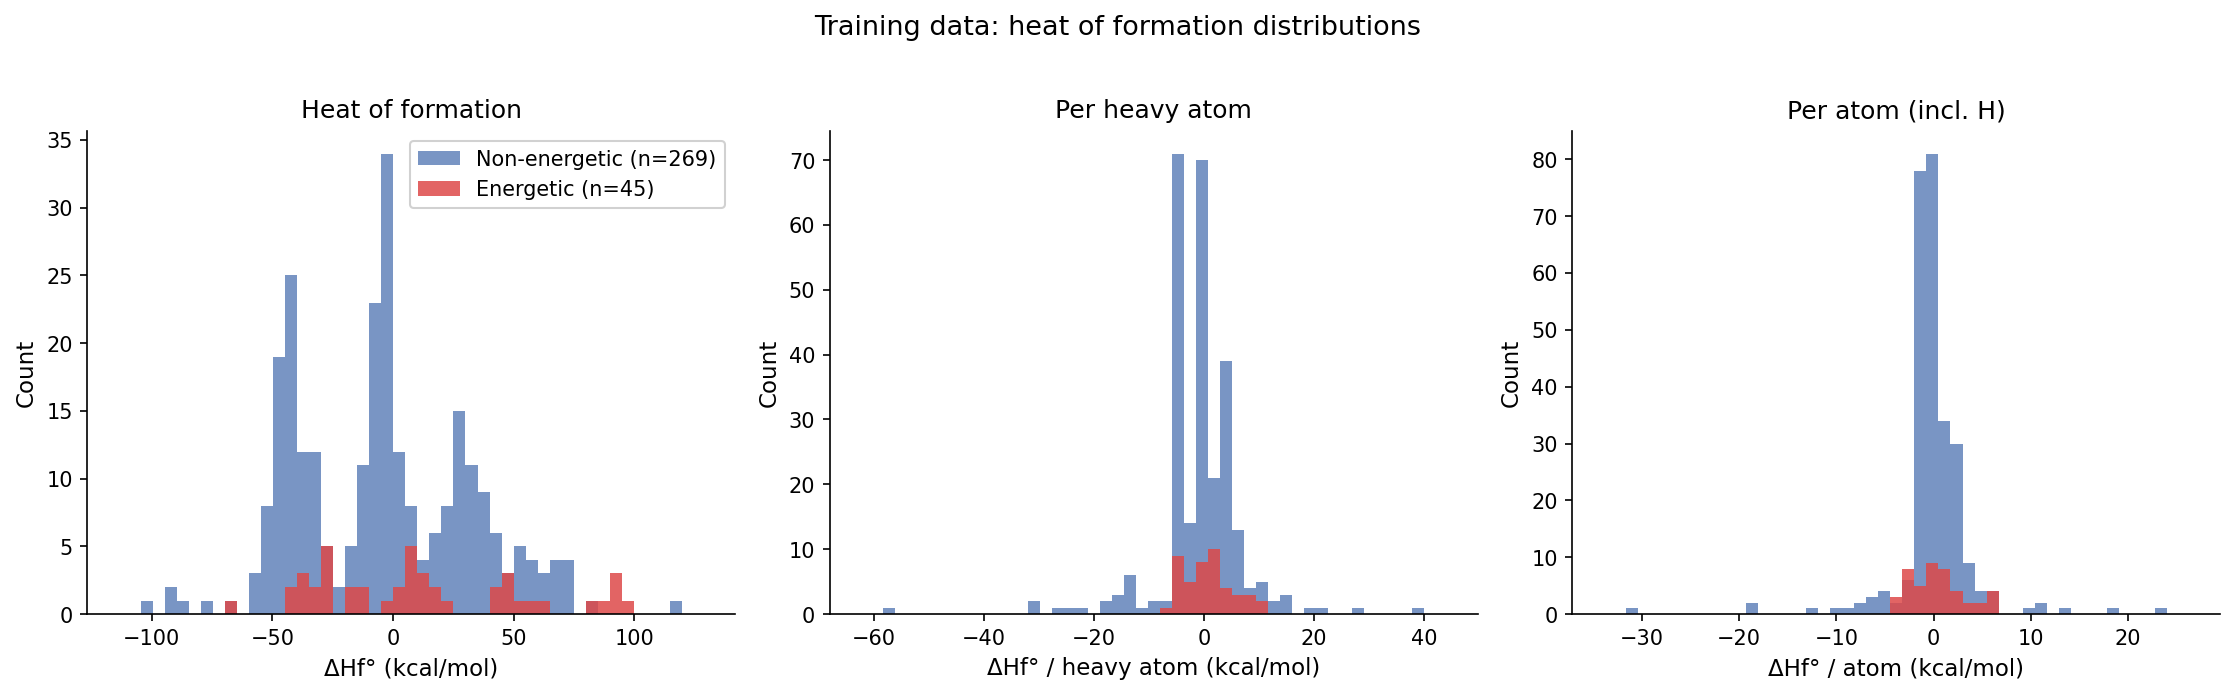
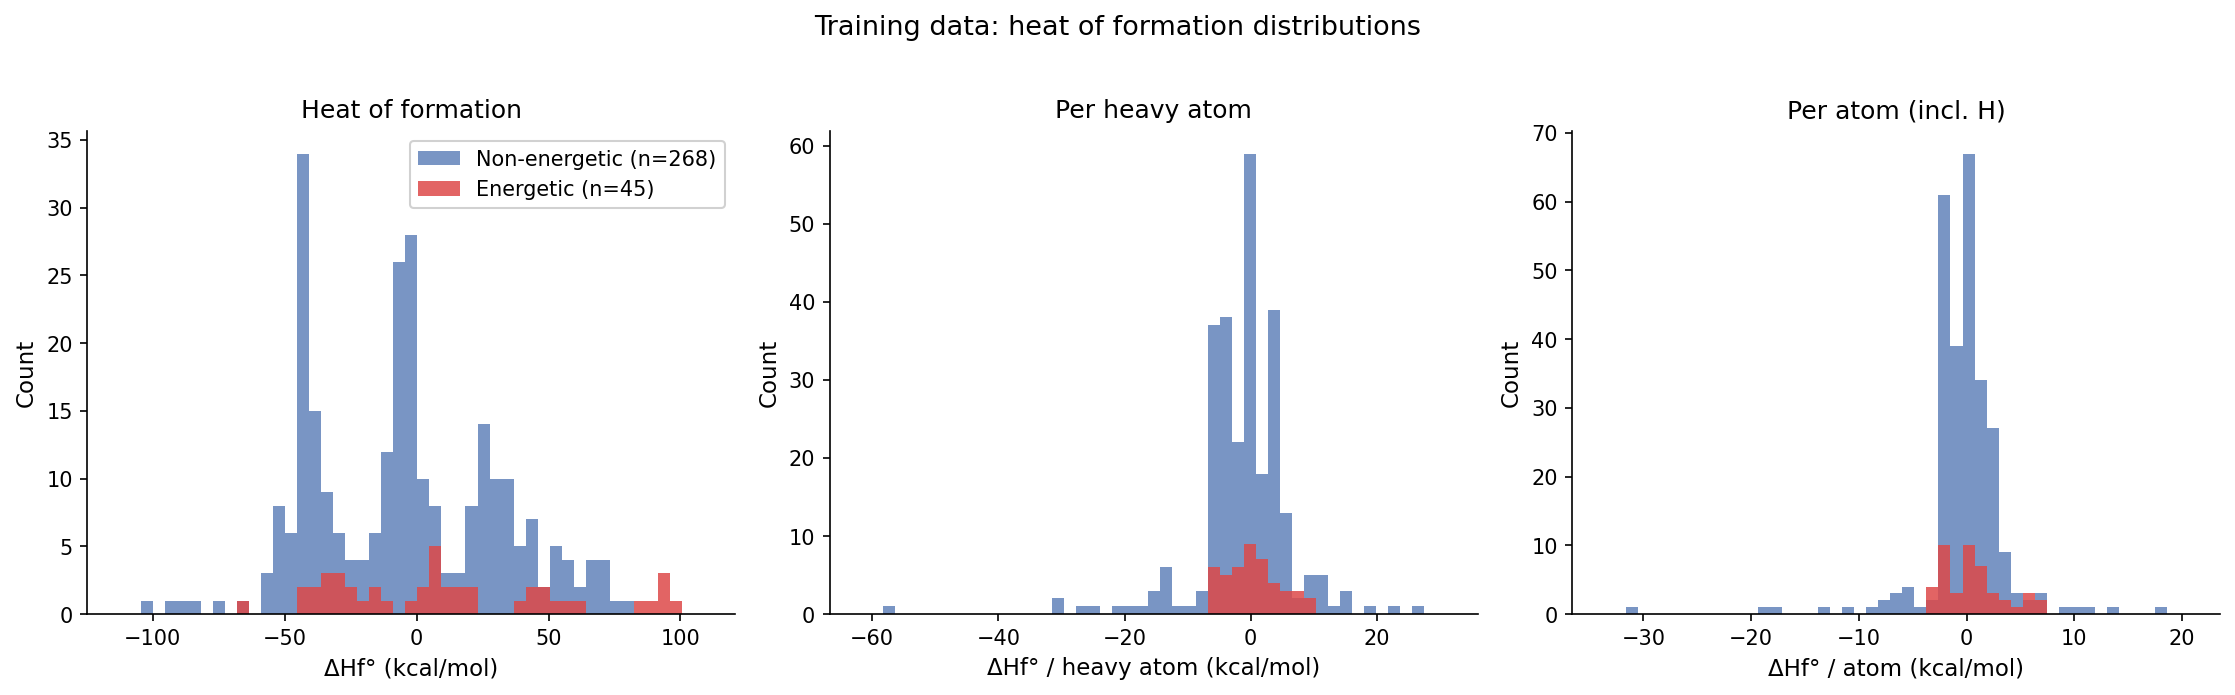
Remove cyclopropenylidene from training data (313 molecules)
Cyclopropenylidene is a carbene whose SMILES (C1=C=C1) is incorrectly
parsed by RDKit, which adds implicit H to fill valence rather than
representing the divalent carbon. Remove it to avoid fitting on a
misrepresented structure.

Update all references: test counts, README dataset description and
benchmark narrative, and regenerate the training data histogram.

diff --git a/tests/test_data.py b/tests/test_data.py
@@ -23,15 +23,15 @@ class TestTrainingData:
     def df(self):
         return load_training_data()
 
-    def test_has_314_rows(self, df):
-        assert len(df) == 314
+    def test_has_313_rows(self, df):
+        assert len(df) == 313
 
     def test_required_columns(self, df):
         for col in ["id", "name", "formula", "smiles", "exp_dhf_kcal_mol", "source", "category"]:
             assert col in df.columns
 
     def test_ids_are_sequential(self, df):
-        assert list(df["id"]) == list(range(1, 315))
+        assert list(df["id"]) == list(range(1, 314))
 
     def test_all_smiles_parseable(self, df):
         for idx, row in df.iterrows():
@@ -67,7 +67,7 @@ class TestTrainingData:
         sources = set(df["source"])
         assert sources == {"Cawkwell2021", "Yalamanchi2020"}
         assert len(df[df["source"] == "Cawkwell2021"]) == 102
-        assert len(df[df["source"] == "Yalamanchi2020"]) == 212
+        assert len(df[df["source"] == "Yalamanchi2020"]) == 211
 
     def test_exp_dhf_values_reasonable(self, df):
         """Experimental ΔHf° should be in a reasonable range for organic molecules."""

diff --git a/README.md b/README.md
@@ -120,12 +120,12 @@ python -m deltahf predict -i molecules.csv --epsilon params.json --model 4param 
 
 ## Training Data
 
-`deltahf/data/training_data.csv` contains **314 CHNO molecules** with experimental ΔHf° values from two literature sources:
+`deltahf/data/training_data.csv` contains **313 CHNO molecules** with experimental ΔHf° values from two literature sources:
 
 | Source | Count | Description |
 |--------|-------|-------------|
 | Cawkwell et al. (2021)<sup>1</sup> | 102 | Energetic CHNO molecules + small reference compounds |
-| Yalamanchi et al. (2020)<sup>2</sup> | 212 | Cyclic hydrocarbons (CH only) |
+| Yalamanchi et al. (2020)<sup>2</sup> | 211 | Cyclic hydrocarbons (CH only) |
 
 Each molecule is assigned a `category` label:
 
@@ -134,7 +134,7 @@ Each molecule is assigned a `category` label:
 | `energetic` | 45 | Explosives, nitro/azide/nitroso compounds |
 | `small_CHNO` | 57 | Small reference molecules (methane, water, ethanol, etc.) |
 | `cyclic_HC` | 189 | Cyclic hydrocarbons (cyclopentanes through naphthalenes) |
-| `strained_3ring` | 13 | Cyclopropane derivatives and quadricyclane |
+| `strained_3ring` | 12 | Cyclopropane derivatives and quadricyclane |
 | `large_HC` | 10 | Large PAHs (pyrene, tetracene, etc.) and decylbenzene |
 
 Elemental composition: all molecules contain only C, H, N, O. The Yalamanchi subset contains only C and H.
@@ -165,7 +165,7 @@ python -m deltahf fit \
     -o params.json
 ```
 
-This processes all 314 molecules through the pipeline (SMILES -> RDKit conformers -> xTB optimization), fits atom equivalents by least squares for each model, and reports adjusted R², RMSD, MAD, max deviation, and 10-fold CV RMSD. Standard errors on each epsilon are computed from the CV folds.
+This processes all 313 molecules through the pipeline (SMILES -> RDKit conformers -> xTB optimization), fits atom equivalents by least squares for each model, and reports adjusted R², RMSD, MAD, max deviation, and 10-fold CV RMSD. Standard errors on each epsilon are computed from the CV folds.
 
 ### Example 3: Predict ΔHf° for New Molecules
 
@@ -190,7 +190,7 @@ python -m deltahf predict \
 
 ### Running Benchmarks
 
-`benchmark.py` measures accuracy across all eight models, three model chemistries (xTB, gXTB, UMA), and three conformer counts (1, 3, 5). Results are reported for both the full 314-molecule training set and the 102-molecule Cawkwell2021 subset (enabling comparison with the published DFT-B baseline<sup>1</sup>).
+`benchmark.py` measures accuracy across all eight models, three model chemistries (xTB, gXTB, UMA), and three conformer counts (1, 3, 5). Results are reported for both the full 313-molecule training set and the 102-molecule Cawkwell2021 subset (enabling comparison with the published DFT-B baseline<sup>1</sup>).
 
 ```bash
 # xTB (CPU)
@@ -210,7 +210,7 @@ Results are cached per method × n_conformers in `.benchmark_cache/`, so re-runs
 
 ### Key Findings
 
-A comprehensive benchmark (314 molecules, n_conformers = 1, 3, 5) reveals four main findings:
+A comprehensive benchmark (313 molecules, n_conformers = 1, 3, 5) reveals four main findings:
 
 1. **Bond-order classification outperforms hybridization** — Using maximum bond order (1/2/3) from the Kekulized structure instead of RDKit hybridization labels improves accuracy at both the coarse level (`bondorder` vs `hybrid`, same 10 params) and the fine-grained level (`bondorder_ext` vs `extended`). The best model overall is `bondorder_ext` (16 params), combining bond-order labels with per-carbon H-counts.
 
@@ -220,7 +220,7 @@ A comprehensive benchmark (314 molecules, n_conformers = 1, 3, 5) reveals four m
 
 4. **xTB + bondorder_ext matches or exceeds the published DFT-B baseline** — On the 102-molecule Cawkwell2021 subset, xTB + `bondorder_ext` (RMSD = 6.91 kcal/mol) approaches the DFT-B + 7param result (RMSD = 6.08 kcal/mol) from Cawkwell et al.<sup>1</sup>, while gXTB and UMA substantially surpass it.
 
-5. **The physics prior from xTB is essential** — A pure cheminformatics baseline (Morgan fingerprint + Random Forest, no quantum chemistry) achieved an in-sample RMSD of 8.89 kcal/mol but a cross-validated RMSD of 22.9 kcal/mol on the full training set — dramatically worse than even the simplest xTB model (4param, CV RMSD = 11.5 kcal/mol). The severe overfitting reflects the small dataset size (314 molecules, 2048-dimensional fingerprint). The atom equivalent approach sidesteps this by encoding the quantum mechanical energy decomposition directly, requiring only 4–16 scalar parameters.
+5. **The physics prior from xTB is essential** — A pure cheminformatics baseline (Morgan fingerprint + Random Forest, no quantum chemistry) achieved an in-sample RMSD of 8.89 kcal/mol but a cross-validated RMSD of 22.9 kcal/mol on the full training set — dramatically worse than even the simplest xTB model (4param, CV RMSD = 11.5 kcal/mol). The severe overfitting reflects the small dataset size (313 molecules, 2048-dimensional fingerprint). The atom equivalent approach sidesteps this by encoding the quantum mechanical energy decomposition directly, requiring only 4–16 scalar parameters.
 
 > **Note on the `neighbour` model:** The `neighbour` model (27 params) shows competitive training-set RMSD but produces an extremely large cross-validation RMSD (hundreds of kcal/mol), indicating instability with near-singular design matrix in some CV folds. It is not recommended for practical use.
 
